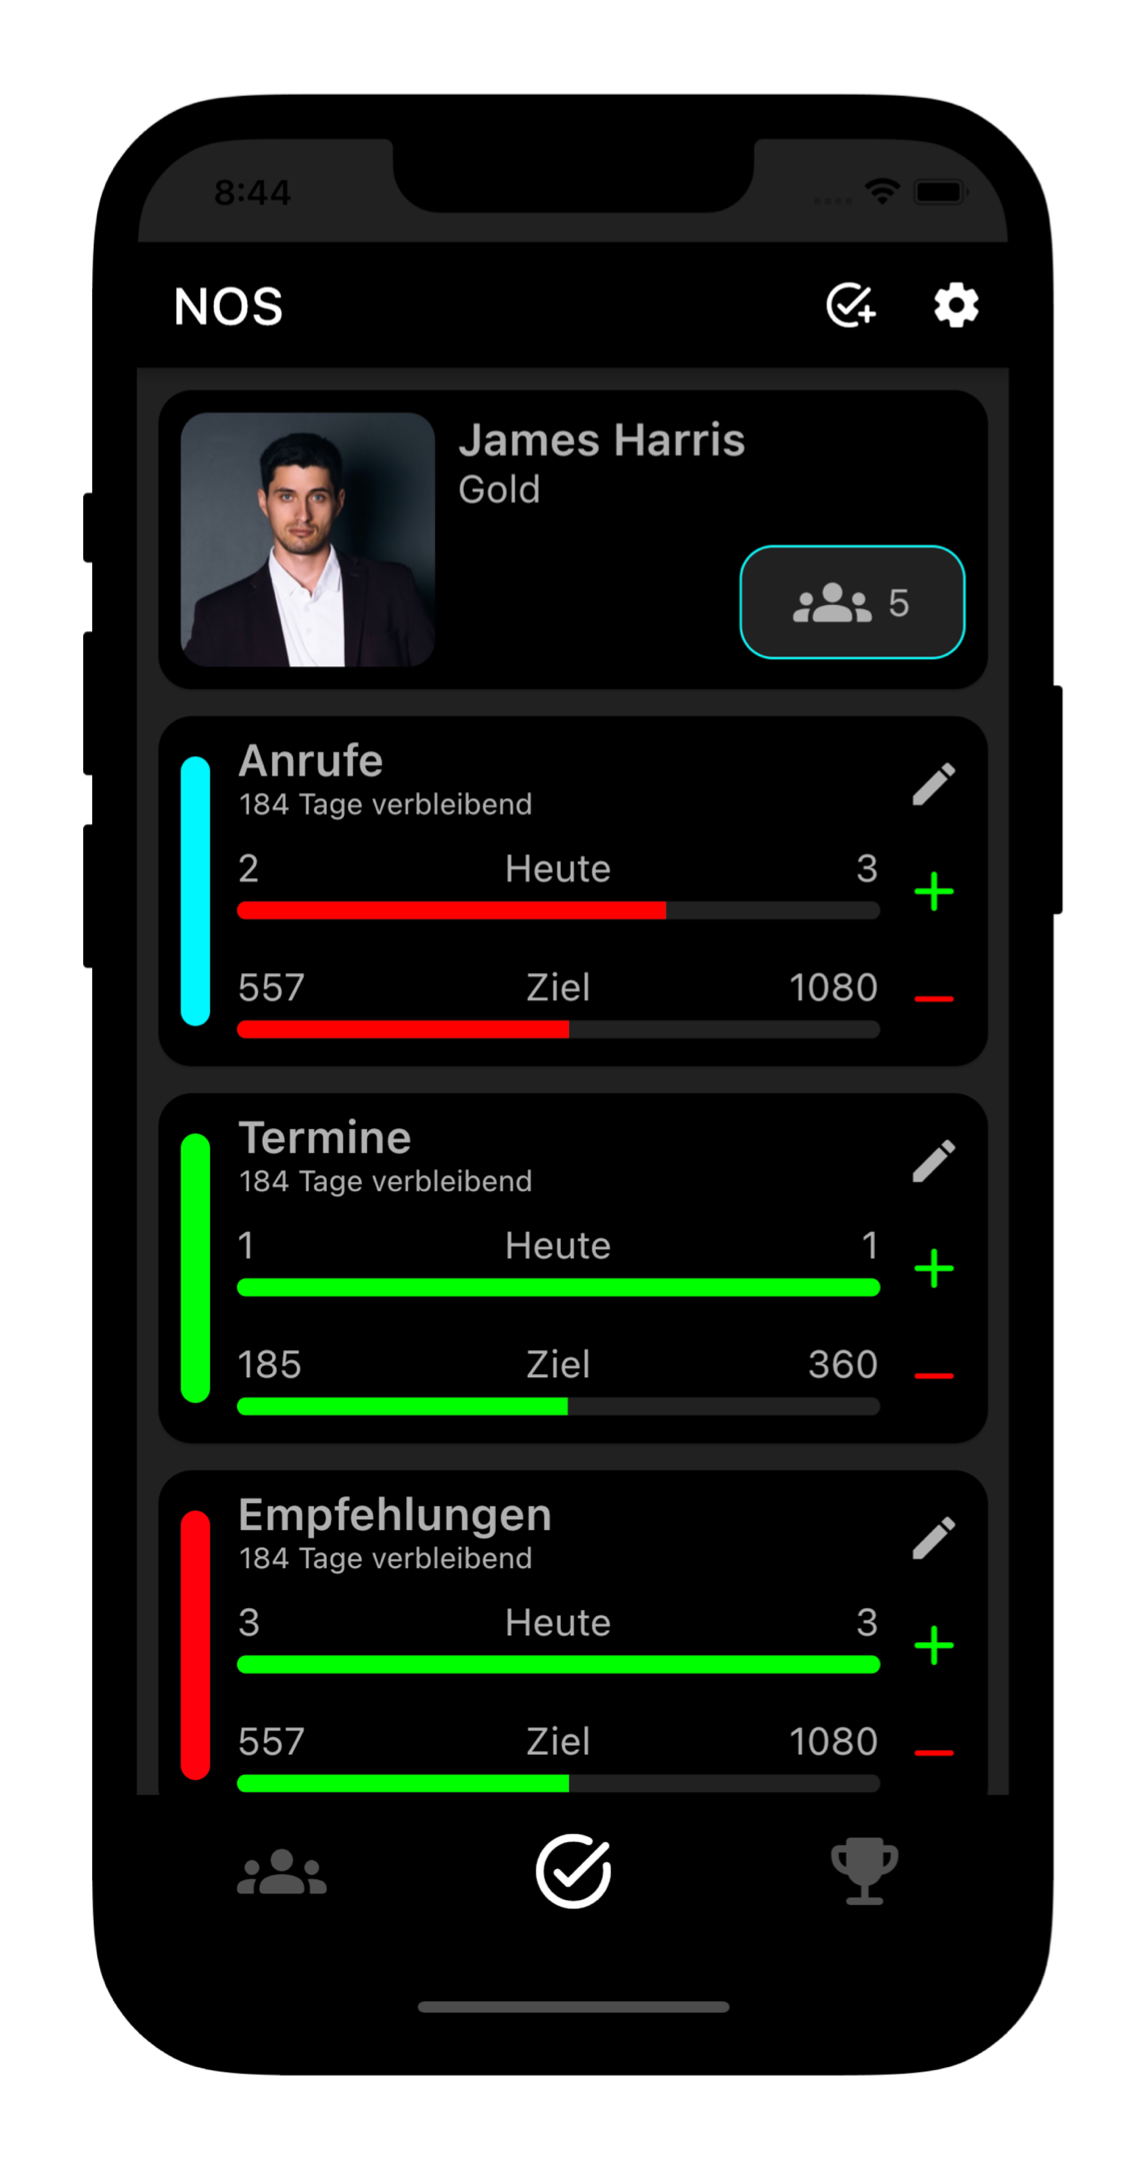
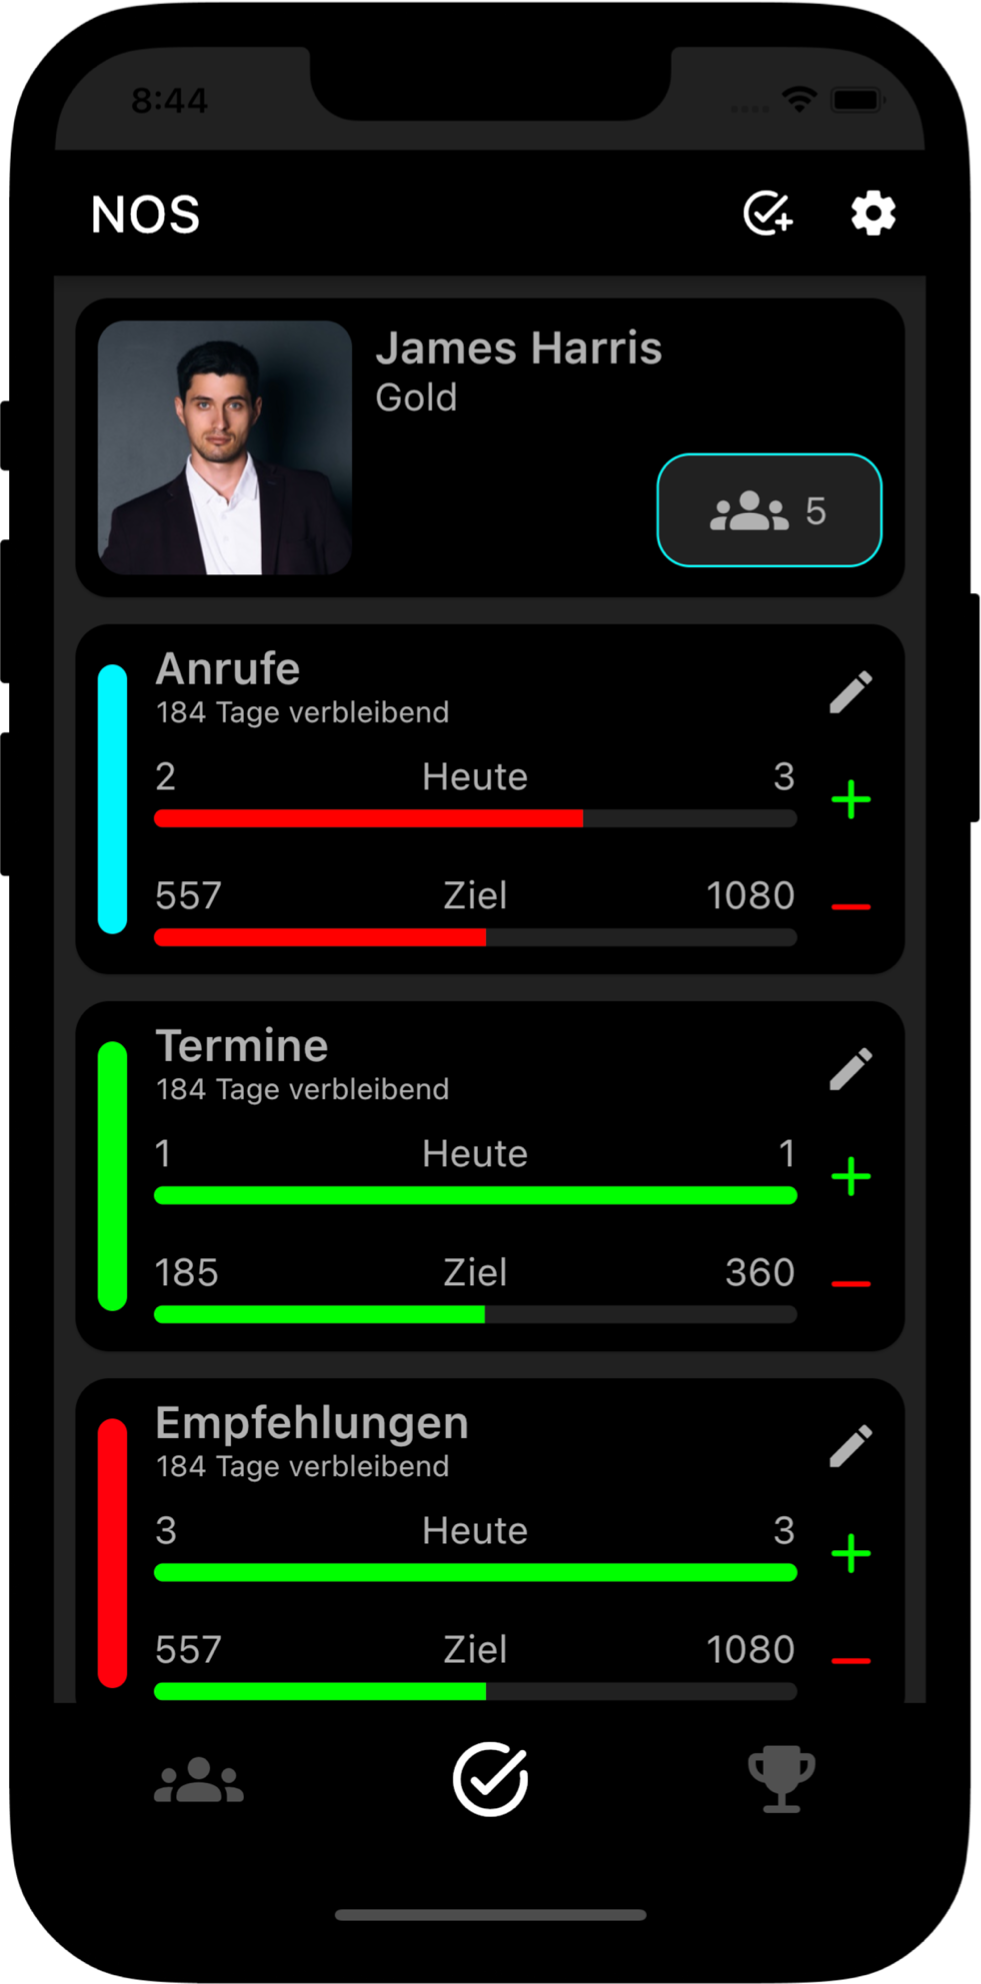
updates .project-details img with margin and removes transparent areas from the PNGs

diff --git a/assets/stylesheets/project-details.css b/assets/stylesheets/project-details.css
@@ -22,6 +22,8 @@
     object-fit: contain;
     display: block;
     margin-left: auto;
+    margin-top: 15px;
+    margin-bottom: 15px;
 }
 
 .project-details .subtitle {
